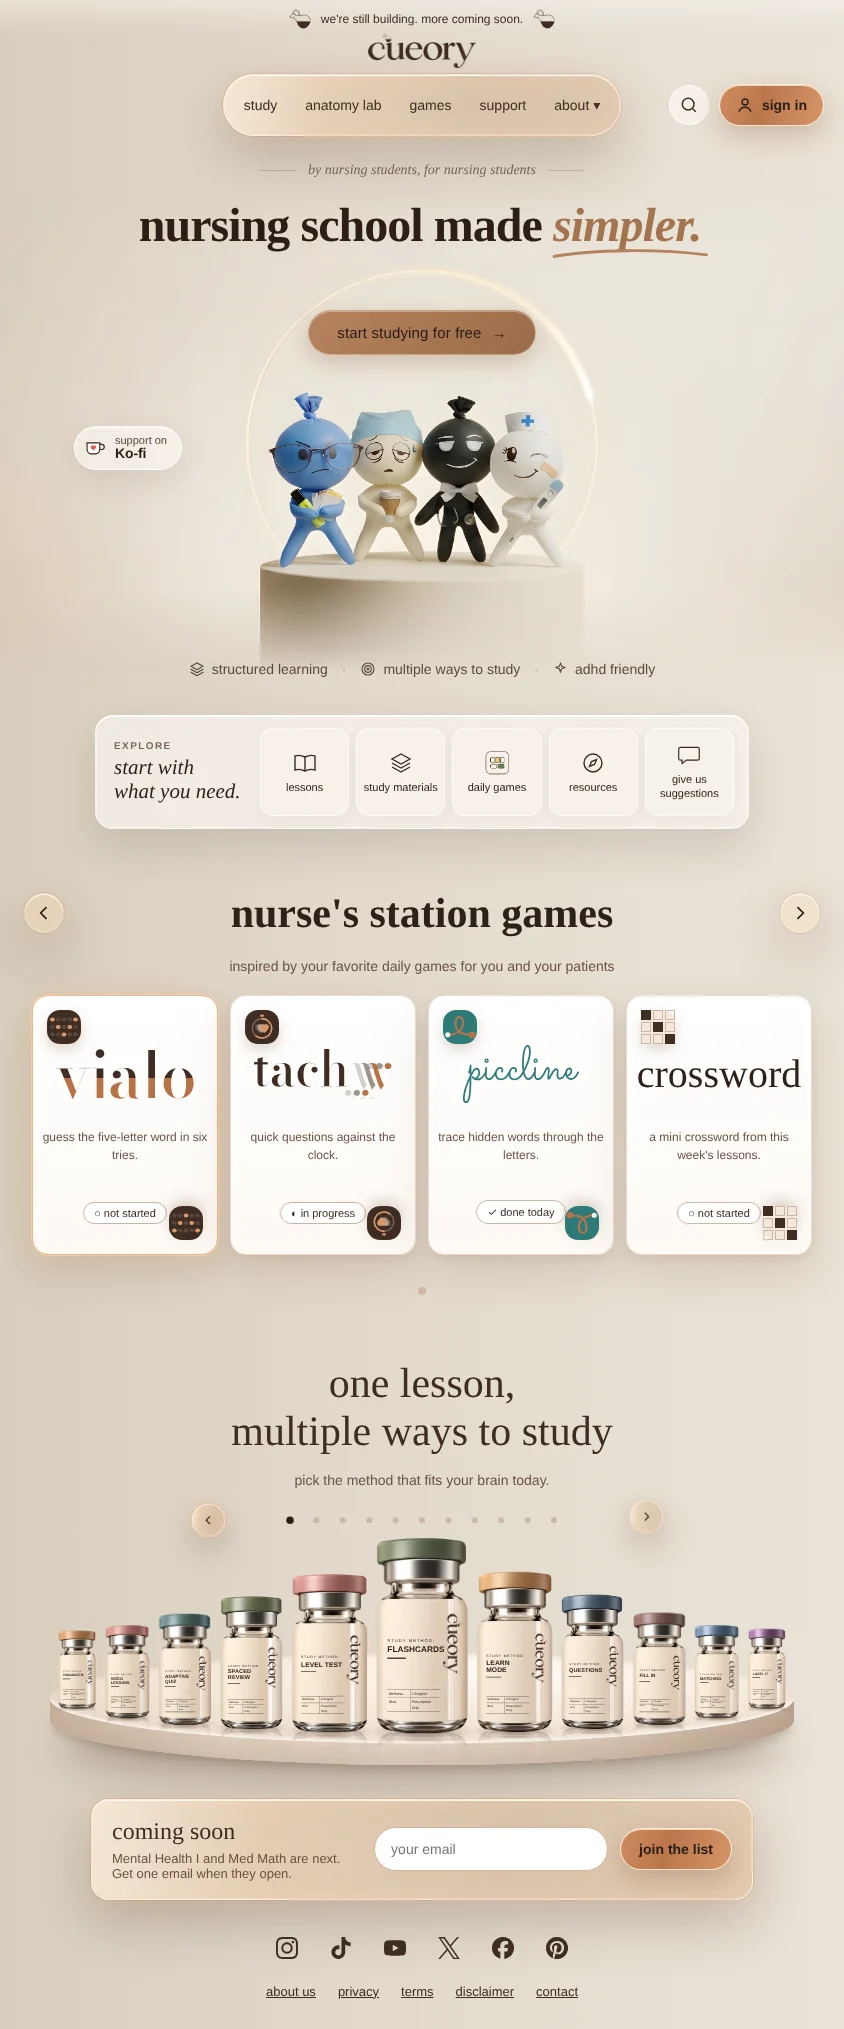
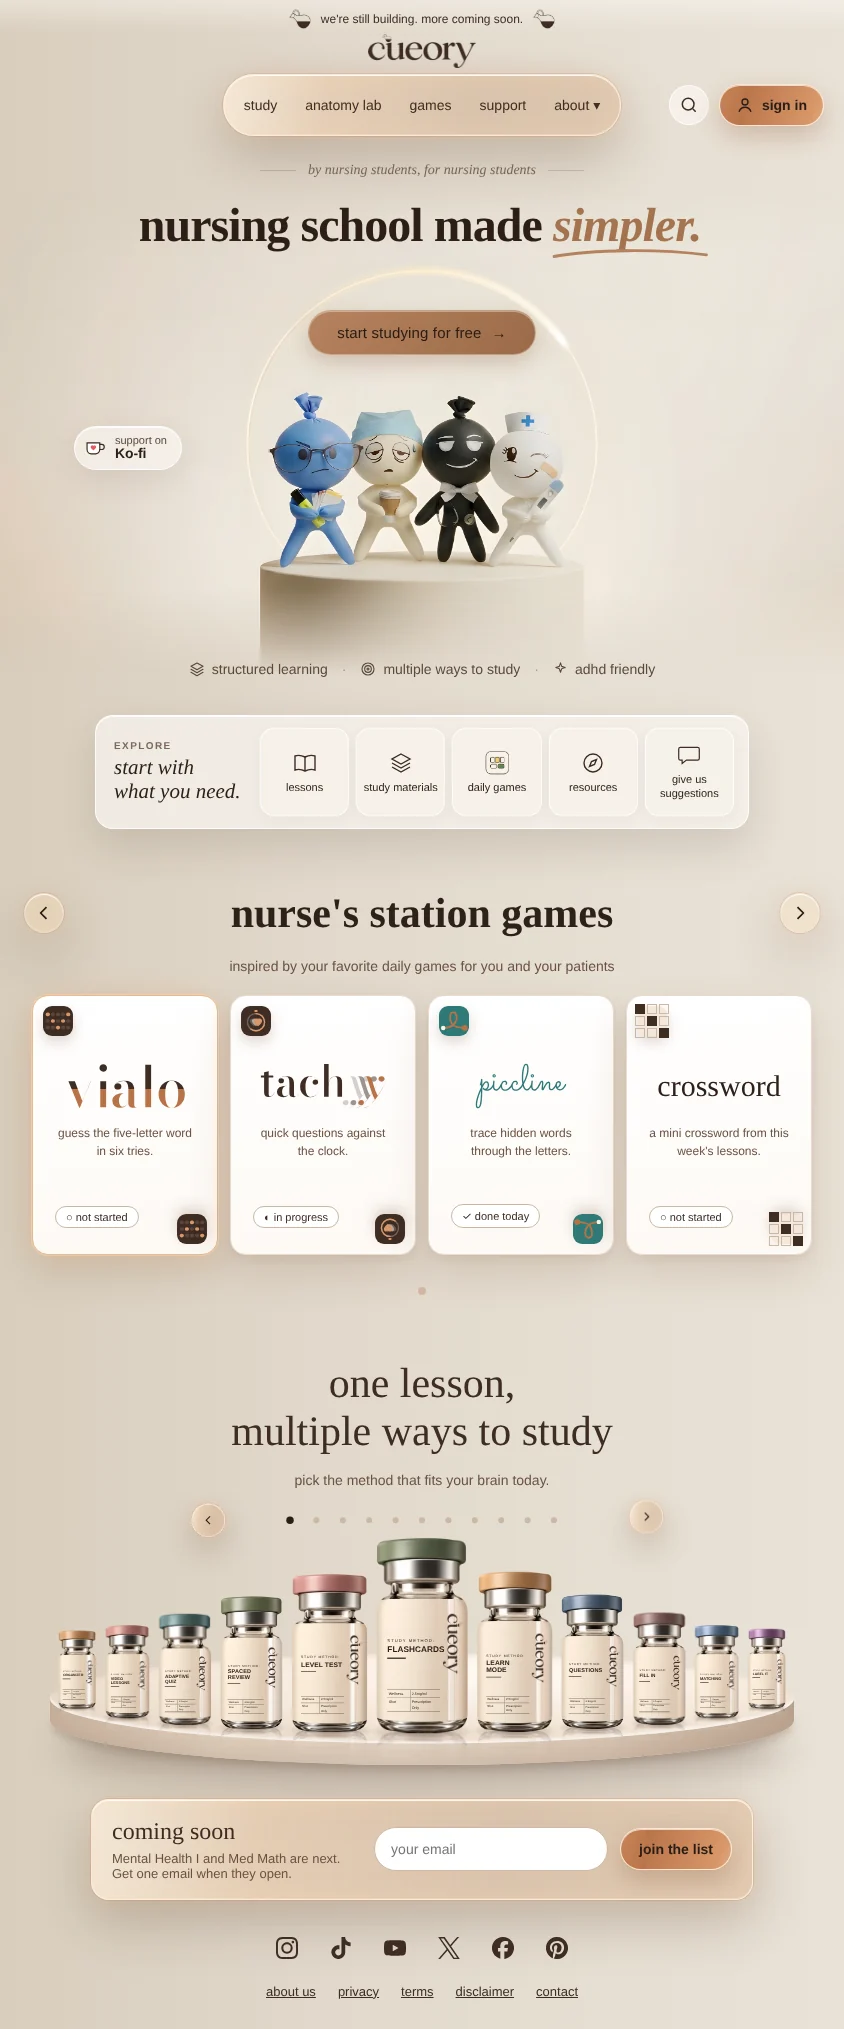
Home v3 hand-off: game card contents stay inside the cards
Claude-Session: https://claude.ai/code/session_01V8pHm5xDFd3PCqqXThexqv

diff --git a/docs/design/home-v3/home-landscape-evening.dc.html b/docs/design/home-v3/home-landscape-evening.dc.html
@@ -226,6 +226,14 @@ nav[aria-label="Explore"] .tile svg,nav[aria-label="Explore"] .tile img{width:24
 #study-materials p{font-size:14px!important;margin:0 0 6px!important}
 .vstage{height:268px!important;max-width:none!important}
 .vtrack{transform:translateX(-50%) scale(.6)!important;transform-origin:50% 100%!important}
+.gface{width:100%!important;height:100%!important;padding:46px 10px 52px!important;grid-template-rows:64px auto 1fr!important}
+.gname{height:64px!important}
+.gname img{max-width:132px!important;max-height:46px!important}
+.gname span{font-size:30px!important}
+.gpip{width:30px!important;height:30px!important;border-radius:9px!important}
+.gpip.tl{top:10px!important;left:10px!important}
+.gpip.br{bottom:10px!important;right:10px!important}
+.gstatus{margin-bottom:-38px;max-width:calc(100% - 44px);justify-self:start}
 #mailing{max-width:620px!important;margin:24px auto 0!important;padding:18px 20px!important;border-radius:18px!important;gap:12px!important;flex-wrap:nowrap!important}
 #mailing > div{flex:1 1 auto!important}
 #mailing h2{font-size:24px!important}

diff --git a/docs/design/home-v3/home-landscape-light.dc.html b/docs/design/home-v3/home-landscape-light.dc.html
@@ -203,6 +203,14 @@ nav[aria-label="Explore"] .tile svg,nav[aria-label="Explore"] .tile img{width:24
 #study-materials p{font-size:14px!important;margin:0 0 6px!important}
 .vstage{height:268px!important;max-width:none!important}
 .vtrack{transform:translateX(-50%) scale(.6)!important;transform-origin:50% 100%!important}
+.gface{width:100%!important;height:100%!important;padding:46px 10px 52px!important;grid-template-rows:64px auto 1fr!important}
+.gname{height:64px!important}
+.gname img{max-width:132px!important;max-height:46px!important}
+.gname span{font-size:30px!important}
+.gpip{width:30px!important;height:30px!important;border-radius:9px!important}
+.gpip.tl{top:10px!important;left:10px!important}
+.gpip.br{bottom:10px!important;right:10px!important}
+.gstatus{margin-bottom:-38px;max-width:calc(100% - 44px);justify-self:start}
 #mailing{max-width:620px!important;margin:24px auto 0!important;padding:18px 20px!important;border-radius:18px!important;gap:12px!important;flex-wrap:nowrap!important}
 #mailing > div{flex:1 1 auto!important}
 #mailing h2{font-size:24px!important}

diff --git a/docs/design/home-v3/README.md b/docs/design/home-v3/README.md
@@ -23,7 +23,7 @@ The tachyyy stopwatch tile and bar wordmark are in their own pull request (`task
 2. **Header**: the logo centred on its own row, the menu bar (study, anatomy lab, games, support, about ▾) centred under it, and search plus sign in on the right. This is a site-header change, so it needs Christian's approval.
 3. **Hero**: the eyebrow line, the headline "nursing school made *simpler.*" with a hand-drawn underline under "simpler.", the copper button "start studying for free →", and three points with icons (structured learning · multiple ways to study · adhd friendly). Behind them is the stage photo, masked to fade at its top and bottom edges. A light travels round the halo ring every 7 s and stops under reduced motion. The Ko-fi pill sits on the left of the stage and uses the tip link from `src/config/site.ts`. The gaps between the halo top, the button, the points line and the characters' heads are even (about 38 px at 1440).
 4. **Explore dock**: a frosted panel overlapping the bottom of the stage, with "explore / start with what you need." and five tiles.
-5. **Nurse's station games**: a row of game cards with arrows and dots, each with its wordmark, one line, a status pill and corner pips.
+5. **Nurse's station games**: a row of game cards with arrows and dots, each with its wordmark, one line, a status pill and corner pips. Everything stays inside its card at every size (the status pill sits beside the bottom-right pip, not under it).
 6. **One lesson, multiple ways to study**: 11 vials on a wide round platter. The front vial is largest and the rest get smaller and sit further back along the front half of the platter only, with even gaps between them. The board script has the exact numbers (scales `1, .82, .68, .57, .48, .41`; 16 px gaps; arc radius 600 px). On hover or keyboard focus the vial lifts 8 px with a soft copper glow, the label text stays dark, and reduced motion keeps only the glow.
 7. **Coming soon**: the Kit email form (Mental Health I and Med Math).
 8. **Social icons, then footer links.**
